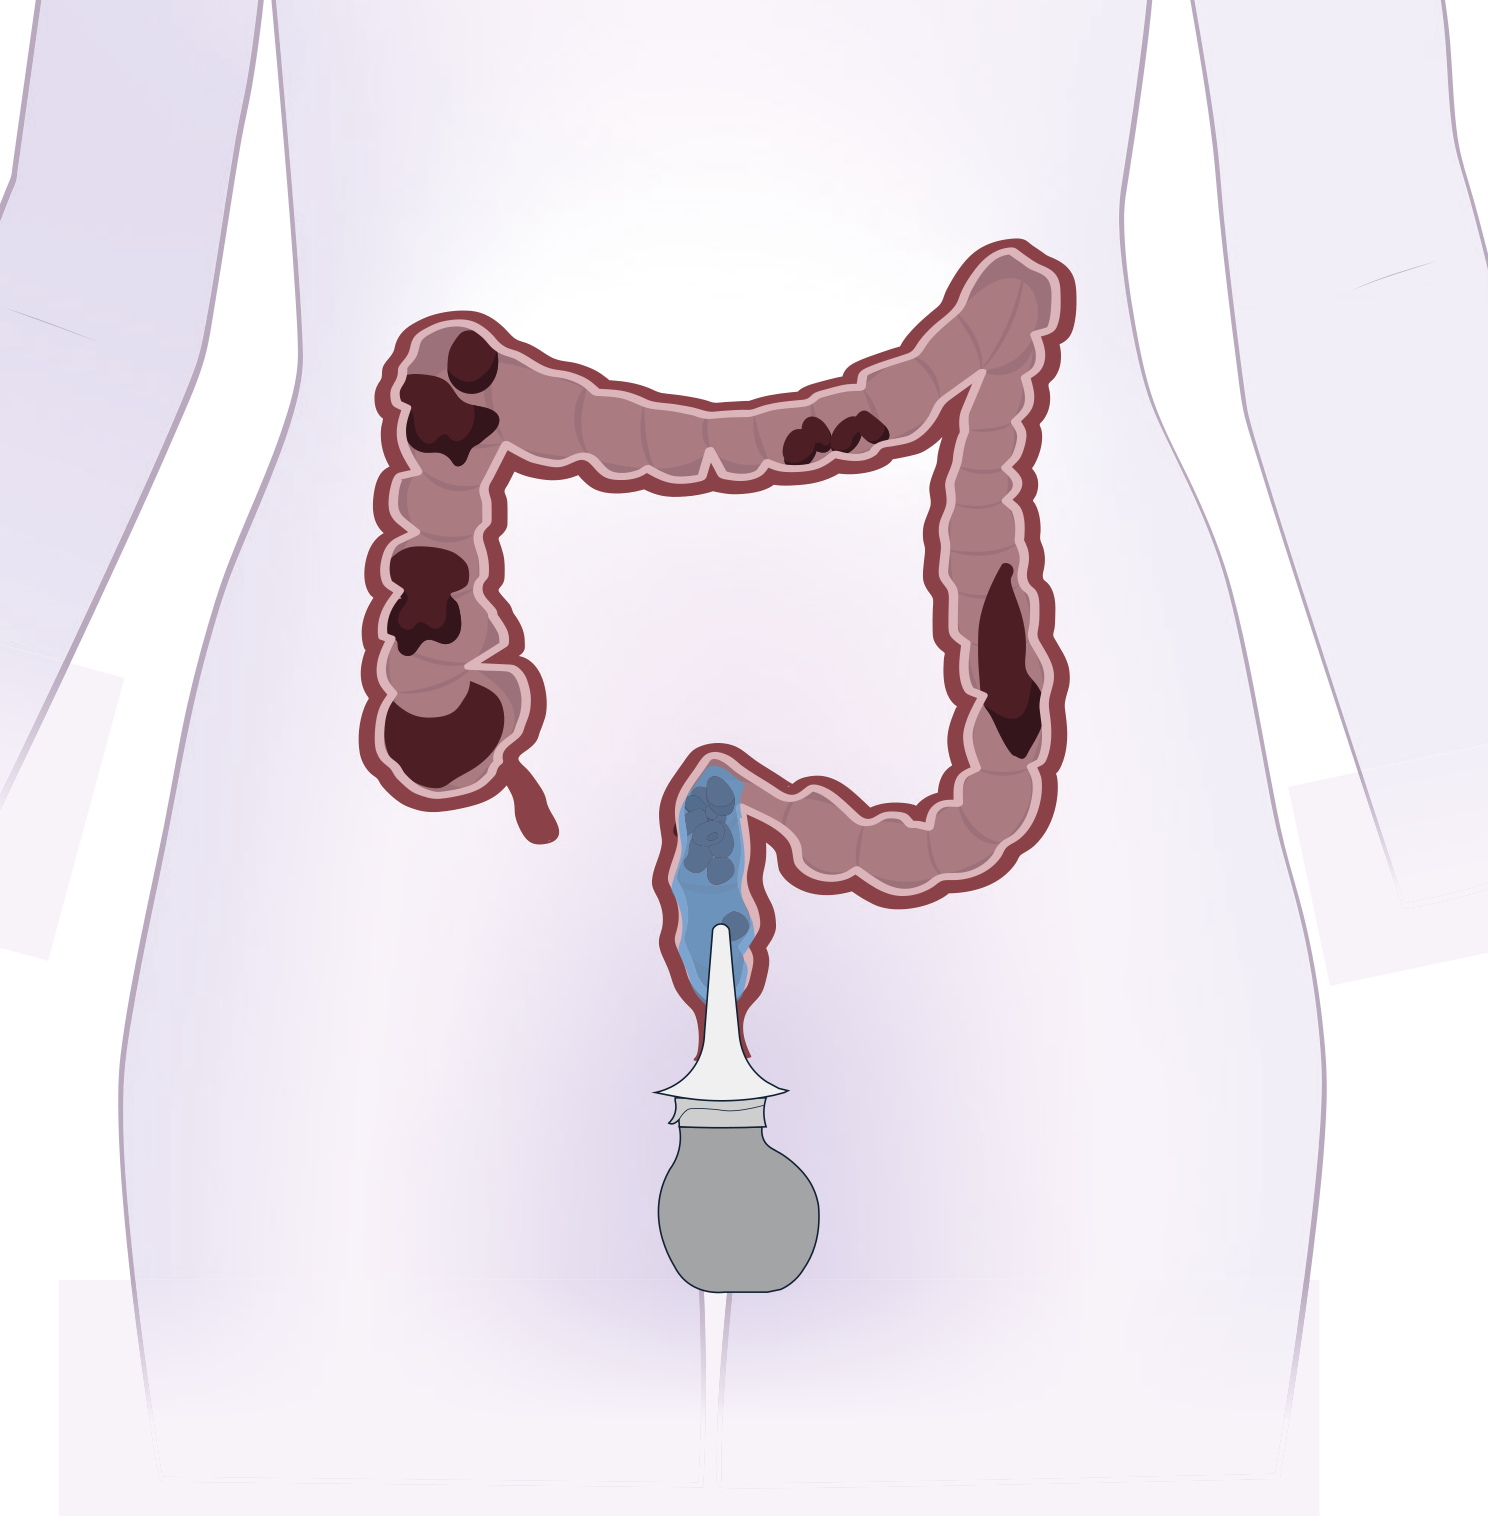
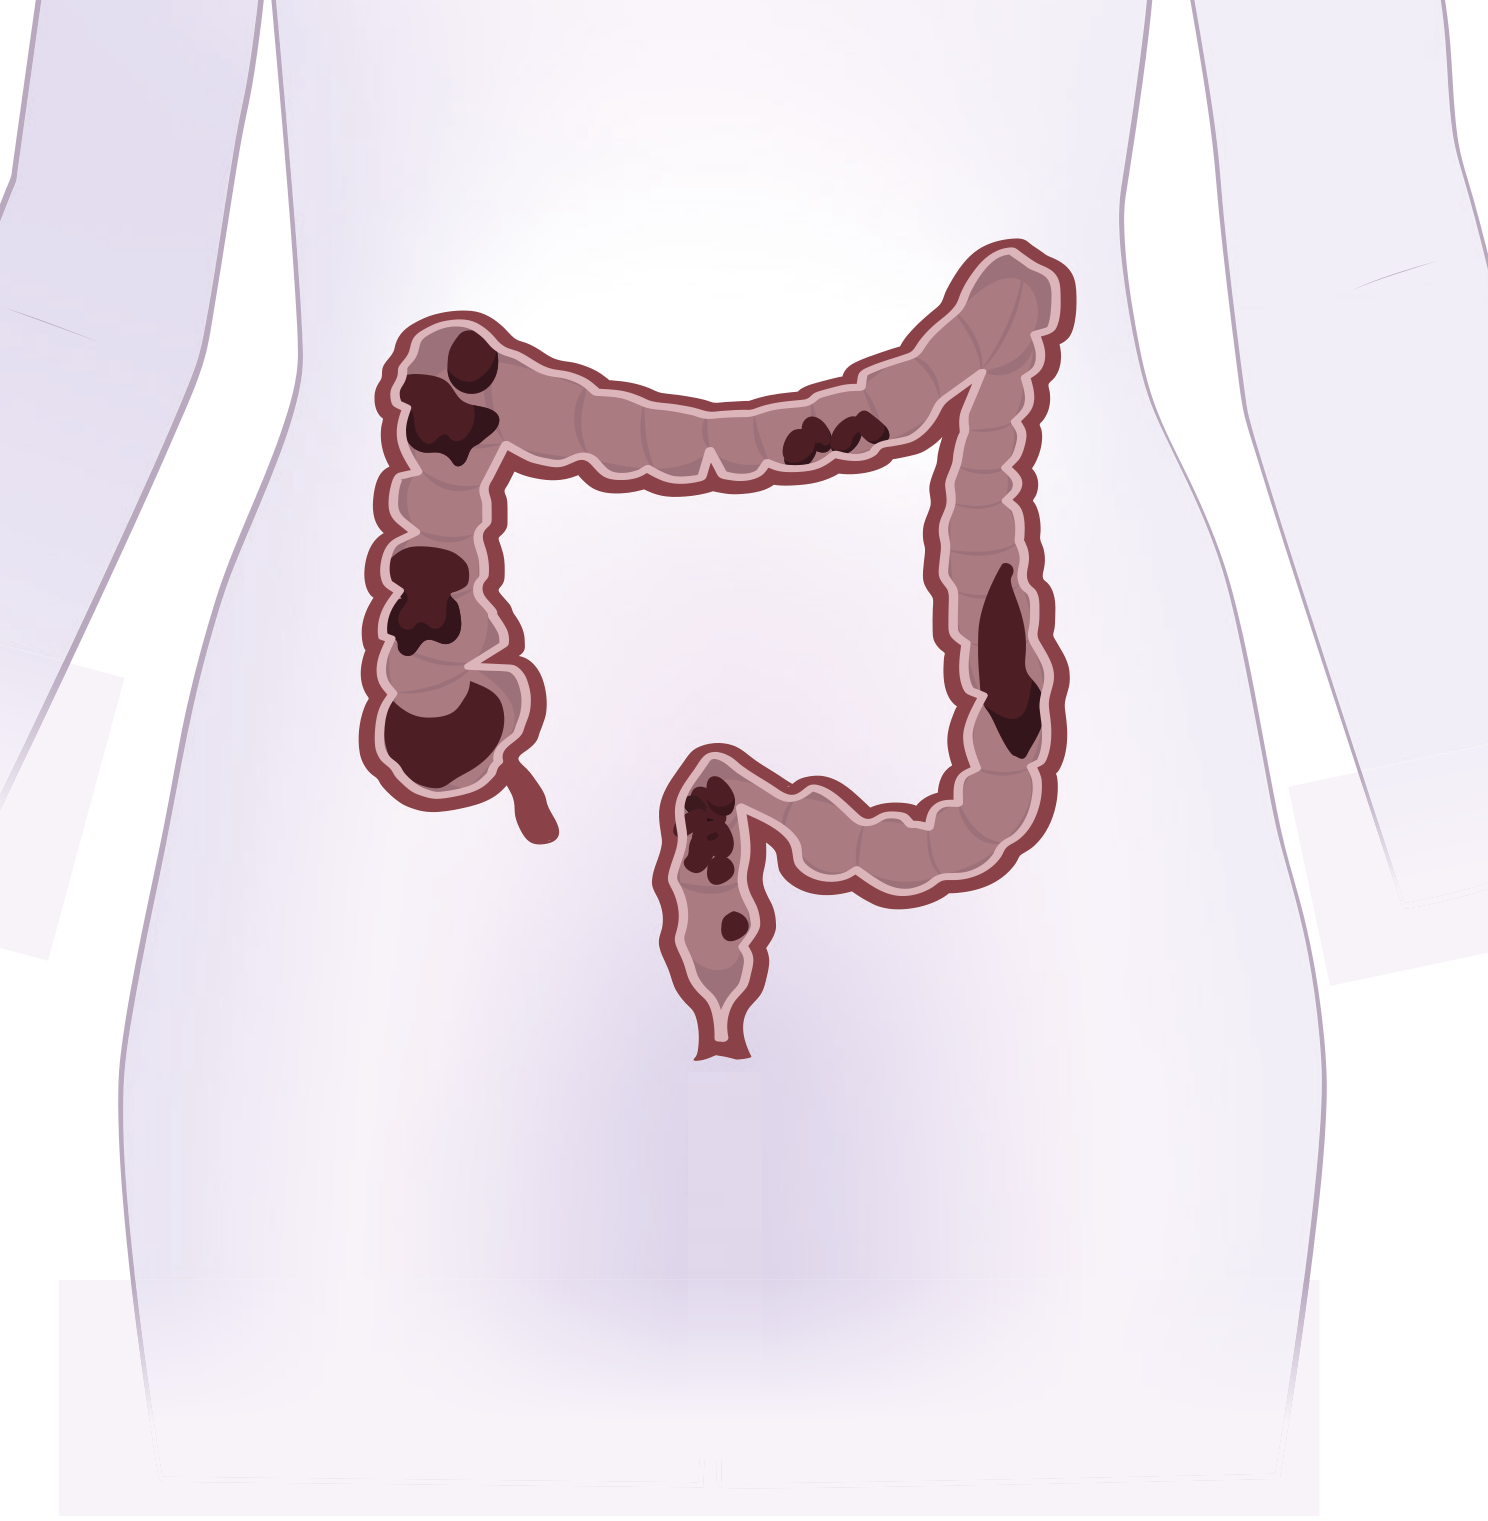
Remove the Navina Mini device from the bowel drawing.
The cone, bulb, and irrigation fluid are gone from the shared illustration. The rectum keeps the same tissue color as the colon, and its label still points at it.

Changed region(s): [[0.4328, 0.4944, 0.5565, 0.8961]]

diff --git a/src/data/bowel-anatomy.ts b/src/data/bowel-anatomy.ts
@@ -2,13 +2,13 @@ import type { AnatomyCallout } from "@/data/anatomy-callouts";
 import type { LocaleCode } from "@/lib/locale";
 
 /**
- * Cleaned Navina bowel illustration (body, colon, and cone only).
+ * Cleaned Navina bowel illustration: body and colon only.
  * Labels are drawn beside it, in this order:
  * ascending colon, transverse colon, descending colon, sigmoid colon, rectum.
  */
 export const bowelAnatomyImage = {
   url: "/media/bowel-anatomy.png",
-  alt: "Lower torso showing the colon, the rectum, and a cone",
+  alt: "Lower torso showing the colon and the rectum",
   width: 1488,
   height: 1521,
 };
@@ -16,7 +16,7 @@ export const bowelAnatomyImage = {
 /** Short arrows to the nearest edge of each part. They do not cross. */
 export const bowelCallouts: AnatomyCallout[] = [
   { index: 0, side: "left", y: 0.36, targets: [{ x: 375, y: 560 }] },
-  { index: 4, side: "left", y: 0.66, targets: [{ x: 668, y: 980 }] },
+  { index: 4, side: "left", y: 0.66, targets: [{ x: 705, y: 995 }] },
   { index: 1, side: "right", y: 0.2, targets: [{ x: 1040, y: 330 }] },
   { index: 2, side: "right", y: 0.44, targets: [{ x: 1052, y: 580 }] },
   { index: 3, side: "right", y: 0.68, targets: [{ x: 1000, y: 840 }] },
